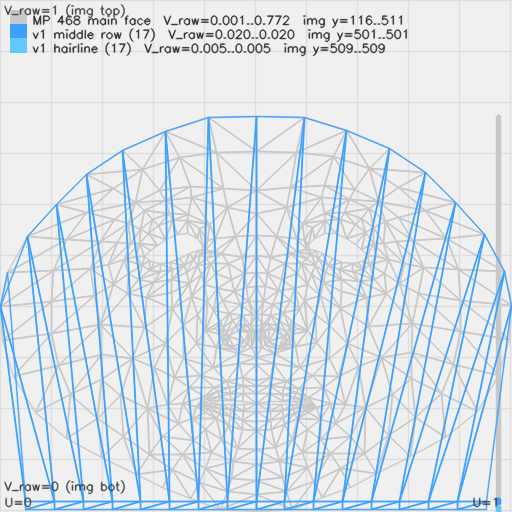
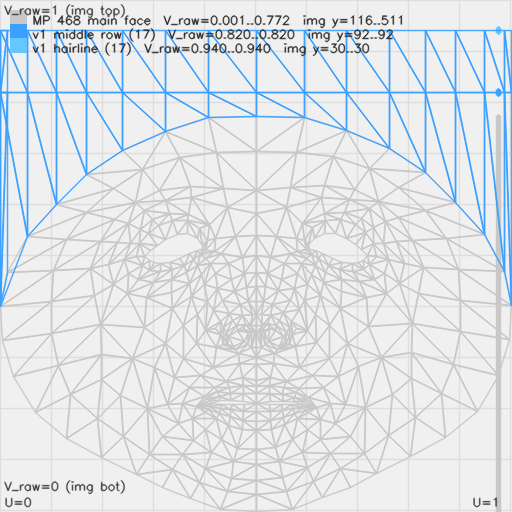
贴图画出来了

Changed region(s): [[0.0, 0.0312, 1.0, 1.0]]

diff --git a/python/constants.py b/python/constants.py
@@ -48,27 +48,50 @@ HAIRLINE_START = N_MP + N_ANCHORS # 485
 HEAD_ARC_RADIUS_FRAC = 0.30
 
 
-# UV layout: the extension occupies a thin strip near the top edge of UV
-# space (V close to 1.0). The strip is two rows (middle / hairline) by
-# N_ANCHORS columns. Tune the band so it lands on empty pixels in your
-# texture atlas. Each value is a pre-flip (raw OBJ) V; the loader does
-# `1 - v` at load time, so the actual top of the texture in image space
-# corresponds to a low V value here.
-UV_STRIP_U_MIN = 0.05
-UV_STRIP_U_MAX = 0.95
-UV_MIDDLE_V    = 0.02   # raw OBJ value; near the top of the texture
-UV_HAIRLINE_V  = 0.005  # very top edge
+# UV layout for the 34 forehead-extension vertices.
+#
+# The texture (imgs/texture0.png, 512×512) is laid out with the original
+# MediaPipe face skin in V_raw ≈ 0.00..0.77 (image y ≈ 117..511) and a
+# horizontal stack of 5 hairline-design arcs at the TOP of the image
+# (image y ≈ 30..170, i.e. V_raw ≈ 0.67..0.94). Those 5 arcs are the
+# content that the extension strip is supposed to display: hairline row
+# samples the topmost arc (blue), middle row samples the bottom arc
+# (orange), and the 3 arcs in between fall out automatically because the
+# ribbon triangle interpolates V linearly between the two rows.
+#
+# V conventions
+# -------------
+# uv_template.py / Three.js (with texture.flipY=true) treat V_raw=1 as
+# the TOP of the image (image y=0) and V_raw=0 as the BOTTOM.
+#
+# U conventions — IMPORTANT
+# -------------------------
+# The 17 MP_TOP_ANCHORS in face.obj have NON-uniform u (≈ 0.00 at the
+# temples, ≈ 0.50 at the forehead center, ≈ 1.00 at the other temple).
+# Each ribbon triangle (anchor[i] → middle[i] → anchor[i+1] etc.) is a
+# vertical column in UV space ONLY when the middle/hairline vertex
+# inherits its U from the corresponding anchor. If we used a uniform
+# 0.05..0.95 U for the strip the columns would slant relative to the
+# anchor U values, warping the texture's 5 horizontal arcs into
+# zig-zags. So `extension_uv_for` takes `anchor_u` and copies it.
+UV_MIDDLE_V    = 0.820   # raw OBJ V → image y ≈  92 (magenta / middle arc)
+UV_HAIRLINE_V  = 0.940   # raw OBJ V → image y ≈  31 (blue / top arc)
+# face.obj 中 17 个 MP_TOP_ANCHORS 的 V_raw 最大值 ≈ 0.7724 (额头中央 MP 10).
+# UV_MIDDLE_V 必须 > 0.7724, 否则 anchor → middle 这一段 V 方向会反向, 三角形
+# 会被翻转, 贴图弧线在那 3 列出现锯齿/折叠。 当前 0.82 同时落在贴图品红弧线
+# (V_raw ≈ 0.824) 上, 蓝/紫/品红 3 条弧线都会原位采到, 红/橙 2 条弧线通过
+# anchor 行的 V 插值出现在 anchor 与 middle 之间的过渡带。
 
 
-def extension_uv_for(row: int, col: int) -> tuple[float, float]:
-    """Return (u, v) UV coords for the (row, col) extension vertex.
+def extension_uv_for(row: int, anchor_u: float) -> tuple[float, float]:
+    """Return (u, v_raw) UV for an extension vertex.
 
-    row: 0 = middle, 1 = hairline.
-    col: 0..N_ANCHORS-1 (left to right).
+    row:       0 = middle, 1 = hairline.
+    anchor_u:  U of the MP anchor this extension vertex sits above (copy
+               it verbatim so the ribbon triangle is vertical in UV space).
     """
-    u = UV_STRIP_U_MIN + (UV_STRIP_U_MAX - UV_STRIP_U_MIN) * (col / (N_ANCHORS - 1))
     v = UV_MIDDLE_V if row == 0 else UV_HAIRLINE_V
-    return (u, v)
+    return (anchor_u, v)
 
 
 # Face-parsing class indices for the jonathandinu/face-parsing

diff --git a/python/build_extended_obj.py b/python/build_extended_obj.py
@@ -92,10 +92,24 @@ def canonical_extension_positions(
     return middle, hairline
 
 
-def extension_uvs() -> tuple[list[tuple[float, float]], list[tuple[float, float]]]:
-    """Return UVs for middle row and hairline row, in OBJ raw V format."""
-    middle_uv   = [C.extension_uv_for(0, i) for i in range(C.N_ANCHORS)]
-    hairline_uv = [C.extension_uv_for(1, i) for i in range(C.N_ANCHORS)]
+def extension_uvs(
+    mesh: ObjMesh,
+    inv_index_map: dict[int, int],
+) -> tuple[list[tuple[float, float]], list[tuple[float, float]]]:
+    """Return UVs for middle row and hairline row, in OBJ raw V format.
+
+    Each new vertex copies the U of the corresponding MP anchor so the
+    ribbon triangle column is vertical in UV space; only V differs
+    between anchor / middle / hairline. See constants.extension_uv_for
+    for why.
+    """
+    middle_uv: list[tuple[float, float]] = []
+    hairline_uv: list[tuple[float, float]] = []
+    for i, mp_idx in enumerate(C.MP_TOP_ANCHORS):
+        anchor_obj_idx = inv_index_map[mp_idx]
+        anchor_u = mesh.texcoords[anchor_obj_idx][0]
+        middle_uv.append(C.extension_uv_for(0, anchor_u))
+        hairline_uv.append(C.extension_uv_for(1, anchor_u))
     return middle_uv, hairline_uv
 
 
@@ -144,7 +158,7 @@ def main() -> None:
 
     # Compute extension data
     middle_pos, hairline_pos = canonical_extension_positions(base, inv)
-    middle_uv,  hairline_uv  = extension_uvs()
+    middle_uv,  hairline_uv  = extension_uvs(base, inv)
     ext_normals = extension_normals()
     ext_faces   = build_extension_faces(inv)
 
